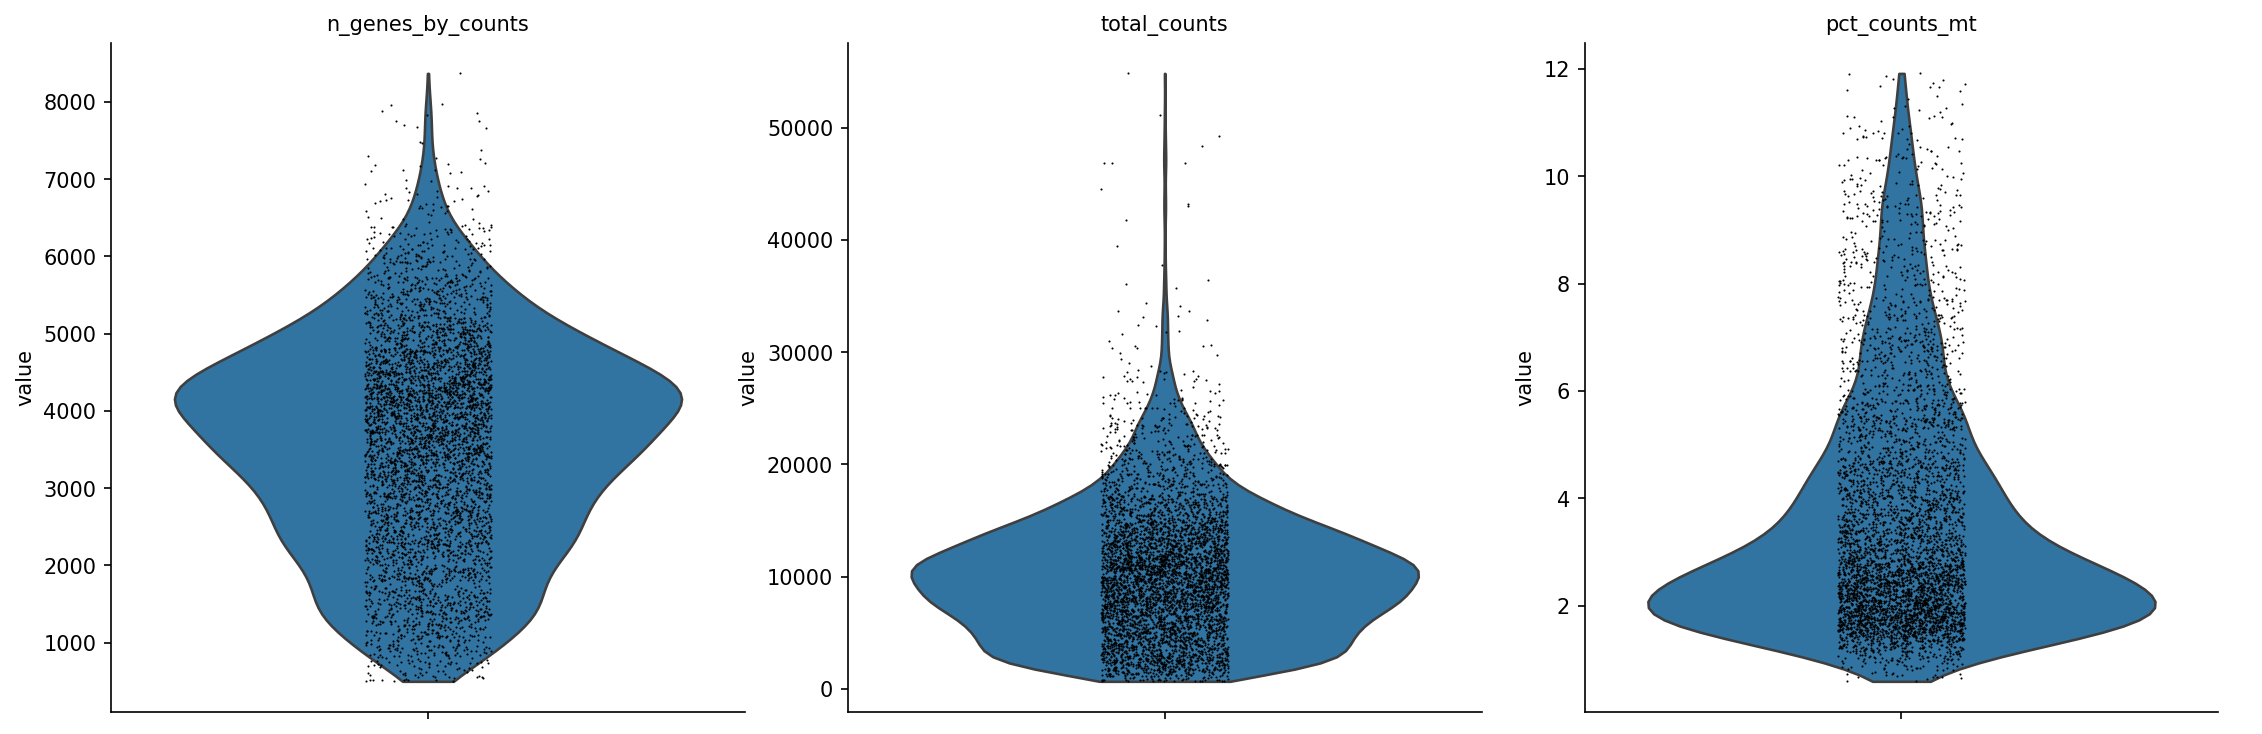
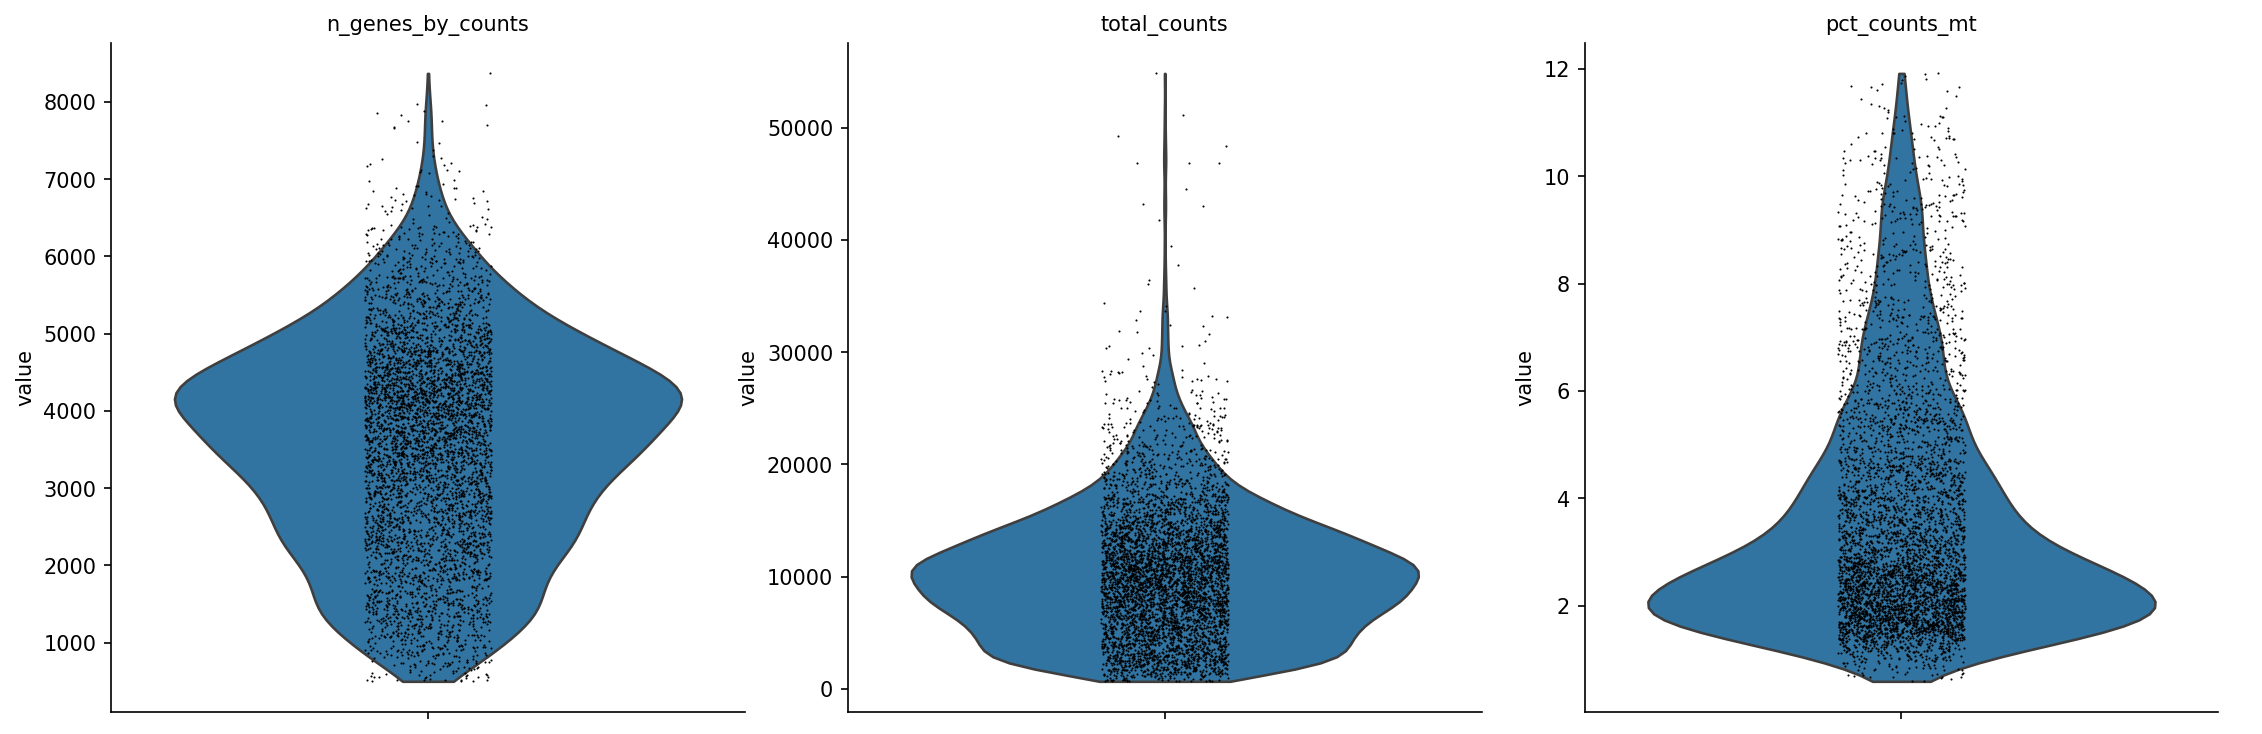
✨ 空間プロットを組織範囲にクロップ、notebook を日英併記に
- plot_spatial() に crop を実装。squidpy は既定でスライド全体を描画し、
  組織以外の余白や同一スライド上の別組織片まで写り込むため、
  スポットの存在範囲に表示範囲を詰める。
- img_res_key に None を明示的に渡していた不具合を修正。
  既定は "hires" で、None を渡すと画像とスポットの座標系がずれ、
  スポットが描画されなくなっていた。None の引数は squidpy に渡さない。
- pipeline.py の spatial プロットも plot_spatial() 経由に統一し、
  クロップが spatial_clusters.png にも効くようにした。
- notebook の markdown 10 セルとコードコメント 8 箇所を常体＋英語併記に。
- README の「既知の制約」を「依存関係についての方針」に差し替え。
  pyyaml / leidenalg / squidpy はいずれも宣言済みで、記述が古くなっていた。

Changed region(s): [[0.8046, 0.1798, 0.8665, 0.9292], [0.1547, 0.2698, 0.2166, 0.9292], [0.4642, 0.5095, 0.557, 0.9292]]

diff --git a/src/visualization.py b/src/visualization.py
@@ -58,27 +58,40 @@ def plot_spatial(
     color: str | list[str] = "leiden",
     library_id: str | None = None,
     img_key: str | None = None,
-    alpha_img: float = 0.8,
-    size: float = 1.2,
+    img_alpha: float | None = None,
+    size: float | None = None,
     save: str | Path | None = None,
     dpi: int = 150,
+    crop: bool = True,
+    crop_margin: float = 0.02,
 ) -> None:
     """
     Visium 形式の空間プロット（`sq.read.visium` で読んだ AnnData を想定）。
 
     `save` にパスを渡すと、その場所に画像として保存する。
+
+    squidpy は既定でスライド画像の全体を描画するため、`crop=True` のときは
+    スポットの存在範囲（+ `crop_margin` の余白）に切り詰める。
+    組織以外の余白や、同一スライド上の別の組織片が写り込むのを防ぐ。
     """
     if "spatial" not in adata.obsm:
         raise ValueError("adata.obsm['spatial'] がありません（Visium 形式の AnnData を想定）")
 
-    sq.pl.spatial_scatter(
-        adata,
-        color=color,
-        library_id=library_id,
-        img_res_key=img_key,
-        alpha_img=alpha_img,
-        size=size,
-    )
+    # None の引数は渡さず squidpy の既定に委ねる。
+    # 特に img_res_key は既定が "hires" で、None を明示すると画像とスポットの
+    # 座標系がずれてスポットが描画されなくなる。
+    kwargs: dict = {"color": color, "library_id": library_id}
+    if img_key is not None:
+        kwargs["img_res_key"] = img_key
+    if img_alpha is not None:
+        kwargs["img_alpha"] = img_alpha
+    if size is not None:
+        kwargs["size"] = size
+
+    sq.pl.spatial_scatter(adata, **kwargs)
+    if crop:
+        _crop_to_spots(adata, library_id=library_id, img_key=img_key, margin=crop_margin)
+
     if save is not None:
         import matplotlib.pyplot as plt
 
@@ -87,3 +100,45 @@ def plot_spatial(
         plt.savefig(save, dpi=dpi, bbox_inches="tight")
         plt.close("all")
 
+
+def _crop_to_spots(
+    adata: sc.AnnData,
+    library_id: str | None = None,
+    img_key: str | None = None,
+    margin: float = 0.02,
+) -> None:
+    """
+    描画済みの図の表示範囲を、スポットの存在範囲（+ margin）に詰める。
+
+    squidpy は既定でスライド画像の全体を描画するため、組織以外の余白や
+    同一スライド上の別の組織片まで写り込む。
+
+    軸の座標系は画像のピクセル座標なので、`adata.obsm["spatial"]`
+    （フル解像度座標）に scalefactor を掛けた値が、そのまま表示範囲になる。
+    """
+    if "spatial" not in adata.uns:
+        return
+
+    import matplotlib.pyplot as plt
+
+    lib = library_id or next(iter(adata.uns["spatial"]))
+    scalefactors = adata.uns["spatial"][lib].get("scalefactors", {})
+    res = img_key or "hires"
+    scale = scalefactors.get(f"tissue_{res}_scalef", 1.0)
+
+    xy = adata.obsm["spatial"] * scale
+    x0, y0 = xy.min(axis=0)
+    x1, y1 = xy.max(axis=0)
+    mx = (x1 - x0) * margin
+    my = (y1 - y0) * margin
+
+    for ax in plt.gcf().axes:
+        if not ax.images:          # 画像を持つ軸だけが対象（カラーバーは除く）
+            continue
+        y_lo, y_hi = ax.get_ylim()
+        ax.set_xlim(x0 - mx, x1 + mx)
+        # 画像の軸は y が反転しているため、現在の向きを保って設定する
+        if y_lo > y_hi:
+            ax.set_ylim(y1 + my, y0 - my)
+        else:
+            ax.set_ylim(y0 - my, y1 + my)

diff --git a/scripts/run_qc.py b/scripts/run_qc.py
@@ -33,7 +33,7 @@ from src.preprocessing import (  # noqa: E402
     filter_cells_and_genes,
     read_visium_sample,
 )
-from src.visualization import plot_qc_violin  # noqa: E402
+from src.visualization import plot_qc_violin, plot_spatial  # noqa: E402
 
 QC_KEYS = ["n_genes_by_counts", "total_counts", "pct_counts_mt"]
 
@@ -60,9 +60,11 @@ def main() -> None:
     plot_qc_violin(adata, keys=QC_KEYS, save=out_dir / "qc_violin_before.png")
 
     # QC 指標の空間分布（組織の端や剥離の影響を確認する）
-    sq.pl.spatial_scatter(adata, color=["total_counts", "n_genes_by_counts"])
-    plt.savefig(out_dir / "qc_spatial.png", dpi=150, bbox_inches="tight")
-    plt.close("all")
+    plot_spatial(
+        adata,
+        color=["total_counts", "n_genes_by_counts"],
+        save=out_dir / "qc_spatial.png",
+    )
 
     print(
         f"\n閾値: min_genes(per spot)={qc['min_genes_per_spot']}, "

diff --git a/src/pipeline.py b/src/pipeline.py
@@ -21,6 +21,7 @@ from .clustering import (
     run_moran_i,
 )
 from .preprocessing import PreprocessParams, preprocess_adata, read_visium_sample
+from .visualization import plot_spatial
 
 
 @dataclass(frozen=True)
@@ -142,9 +143,12 @@ def run_pipeline(project_root: Path, config_path: Path | None = None) -> Pipelin
 
         # Spatial（Visium の場合）
         if "spatial" in adata.obsm:
-            sq.pl.spatial_scatter(adata, color=[cluster_key], alpha_img=0.8)
-            plt.savefig(out_dir / "spatial_clusters.png", dpi=dpi, bbox_inches="tight")
-            plt.close("all")
+            plot_spatial(
+                adata,
+                color=[cluster_key],
+                save=out_dir / "spatial_clusters.png",
+                dpi=dpi,
+            )
 
     return PipelineOutputs(adata=adata, output_dir=out_dir)
 

diff --git a/README.md b/README.md
@@ -78,10 +78,10 @@ uv run jupyter lab
 
 パラメータ（QC 閾値・クラスタリング解像度など）は `config/config.yaml` と `src/` 各モジュールの dataclass（`PreprocessParams` / `DimReduceParams` / `ClusteringParams` 等）で管理する。コードへの直書きはしない。
 
-#### 既知の制約
+#### 依存関係についての方針
 
-- `pyproject.toml` に宣言が漏れている依存関係がある（`pyyaml`, `leidenalg`）。`config.yaml` の `clustering.method: leiden` は現状 `leidenalg` が lock ファイルに含まれていないため失敗する。
-- `squidpy`（空間近傍・cell-cell interaction 解析に使用）は任意導入で、未導入でもパイプライン本体は止まらない（`_require_squidpy()` で保護）。
+- `pyyaml` / `leidenalg` / `squidpy` はいずれも `pyproject.toml` に宣言済みで、`uv.lock` に固定されている。
+- 空間データの読み込みと可視化には **squidpy** を使う（`sq.read.visium` / `sq.pl.spatial_scatter`）。scanpy の `sc.read_visium` / `sc.pl.spatial` は squidpy へ移管され将来削除されるため、新規コードでは使わない。
 - 詳細は [CLAUDE.md](./CLAUDE.md) を参照すること。
 
 ### `src/` モジュール一覧
@@ -212,10 +212,10 @@ uv run jupyter lab
 
 Parameters (QC thresholds, clustering resolution, etc.) are managed via `config/config.yaml` and dataclasses in each `src/` module (`PreprocessParams` / `DimReduceParams` / `ClusteringParams`, etc.), not hardcoded.
 
-#### Known Limitations
+#### Dependency Policy
 
-- `pyproject.toml` is missing some dependency declarations (`pyyaml`, `leidenalg`). Since `leidenalg` is absent from the lock file, `clustering.method: leiden` in `config.yaml` currently fails.
-- `squidpy` (used for spatial neighborhood / cell-cell interaction analysis) is an optional dependency; the core pipeline still runs without it (guarded by `_require_squidpy()`).
+- `pyyaml`, `leidenalg`, and `squidpy` are all declared in `pyproject.toml` and pinned in `uv.lock`.
+- Spatial data loading and visualization go through **squidpy** (`sq.read.visium` / `sq.pl.spatial_scatter`). scanpy's `sc.read_visium` / `sc.pl.spatial` have been migrated to squidpy and are scheduled for removal, so they are not used in new code.
 - See [CLAUDE.md](./CLAUDE.md) for details.
 
 ### `src/` Module Overview
